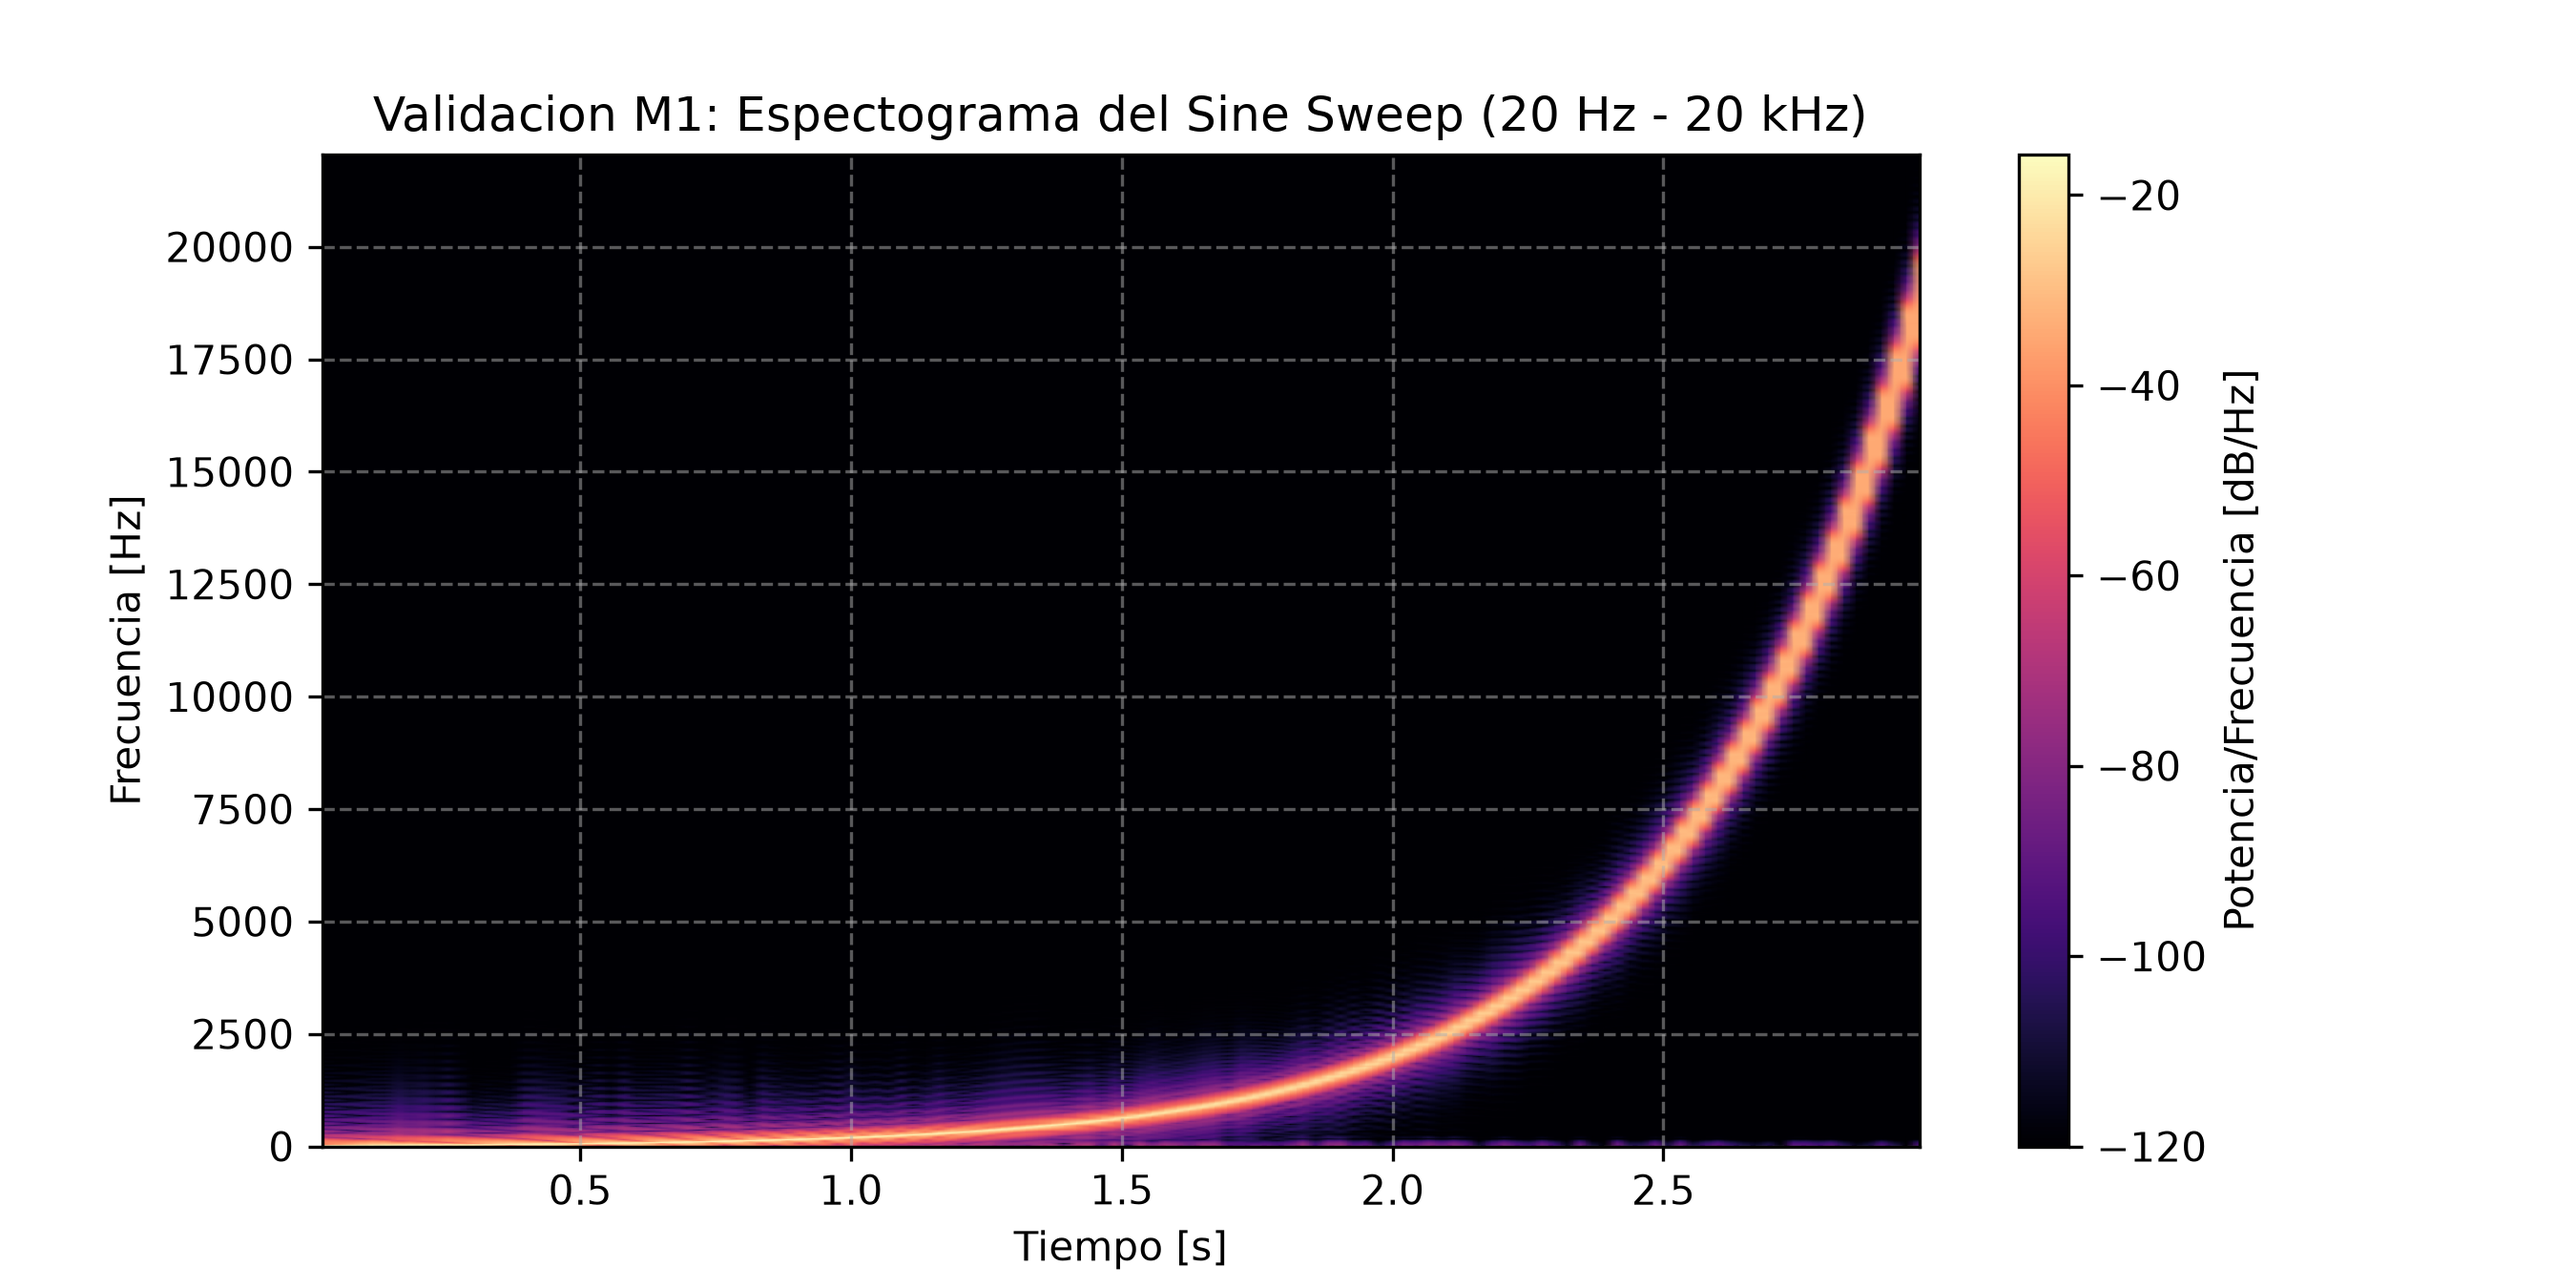
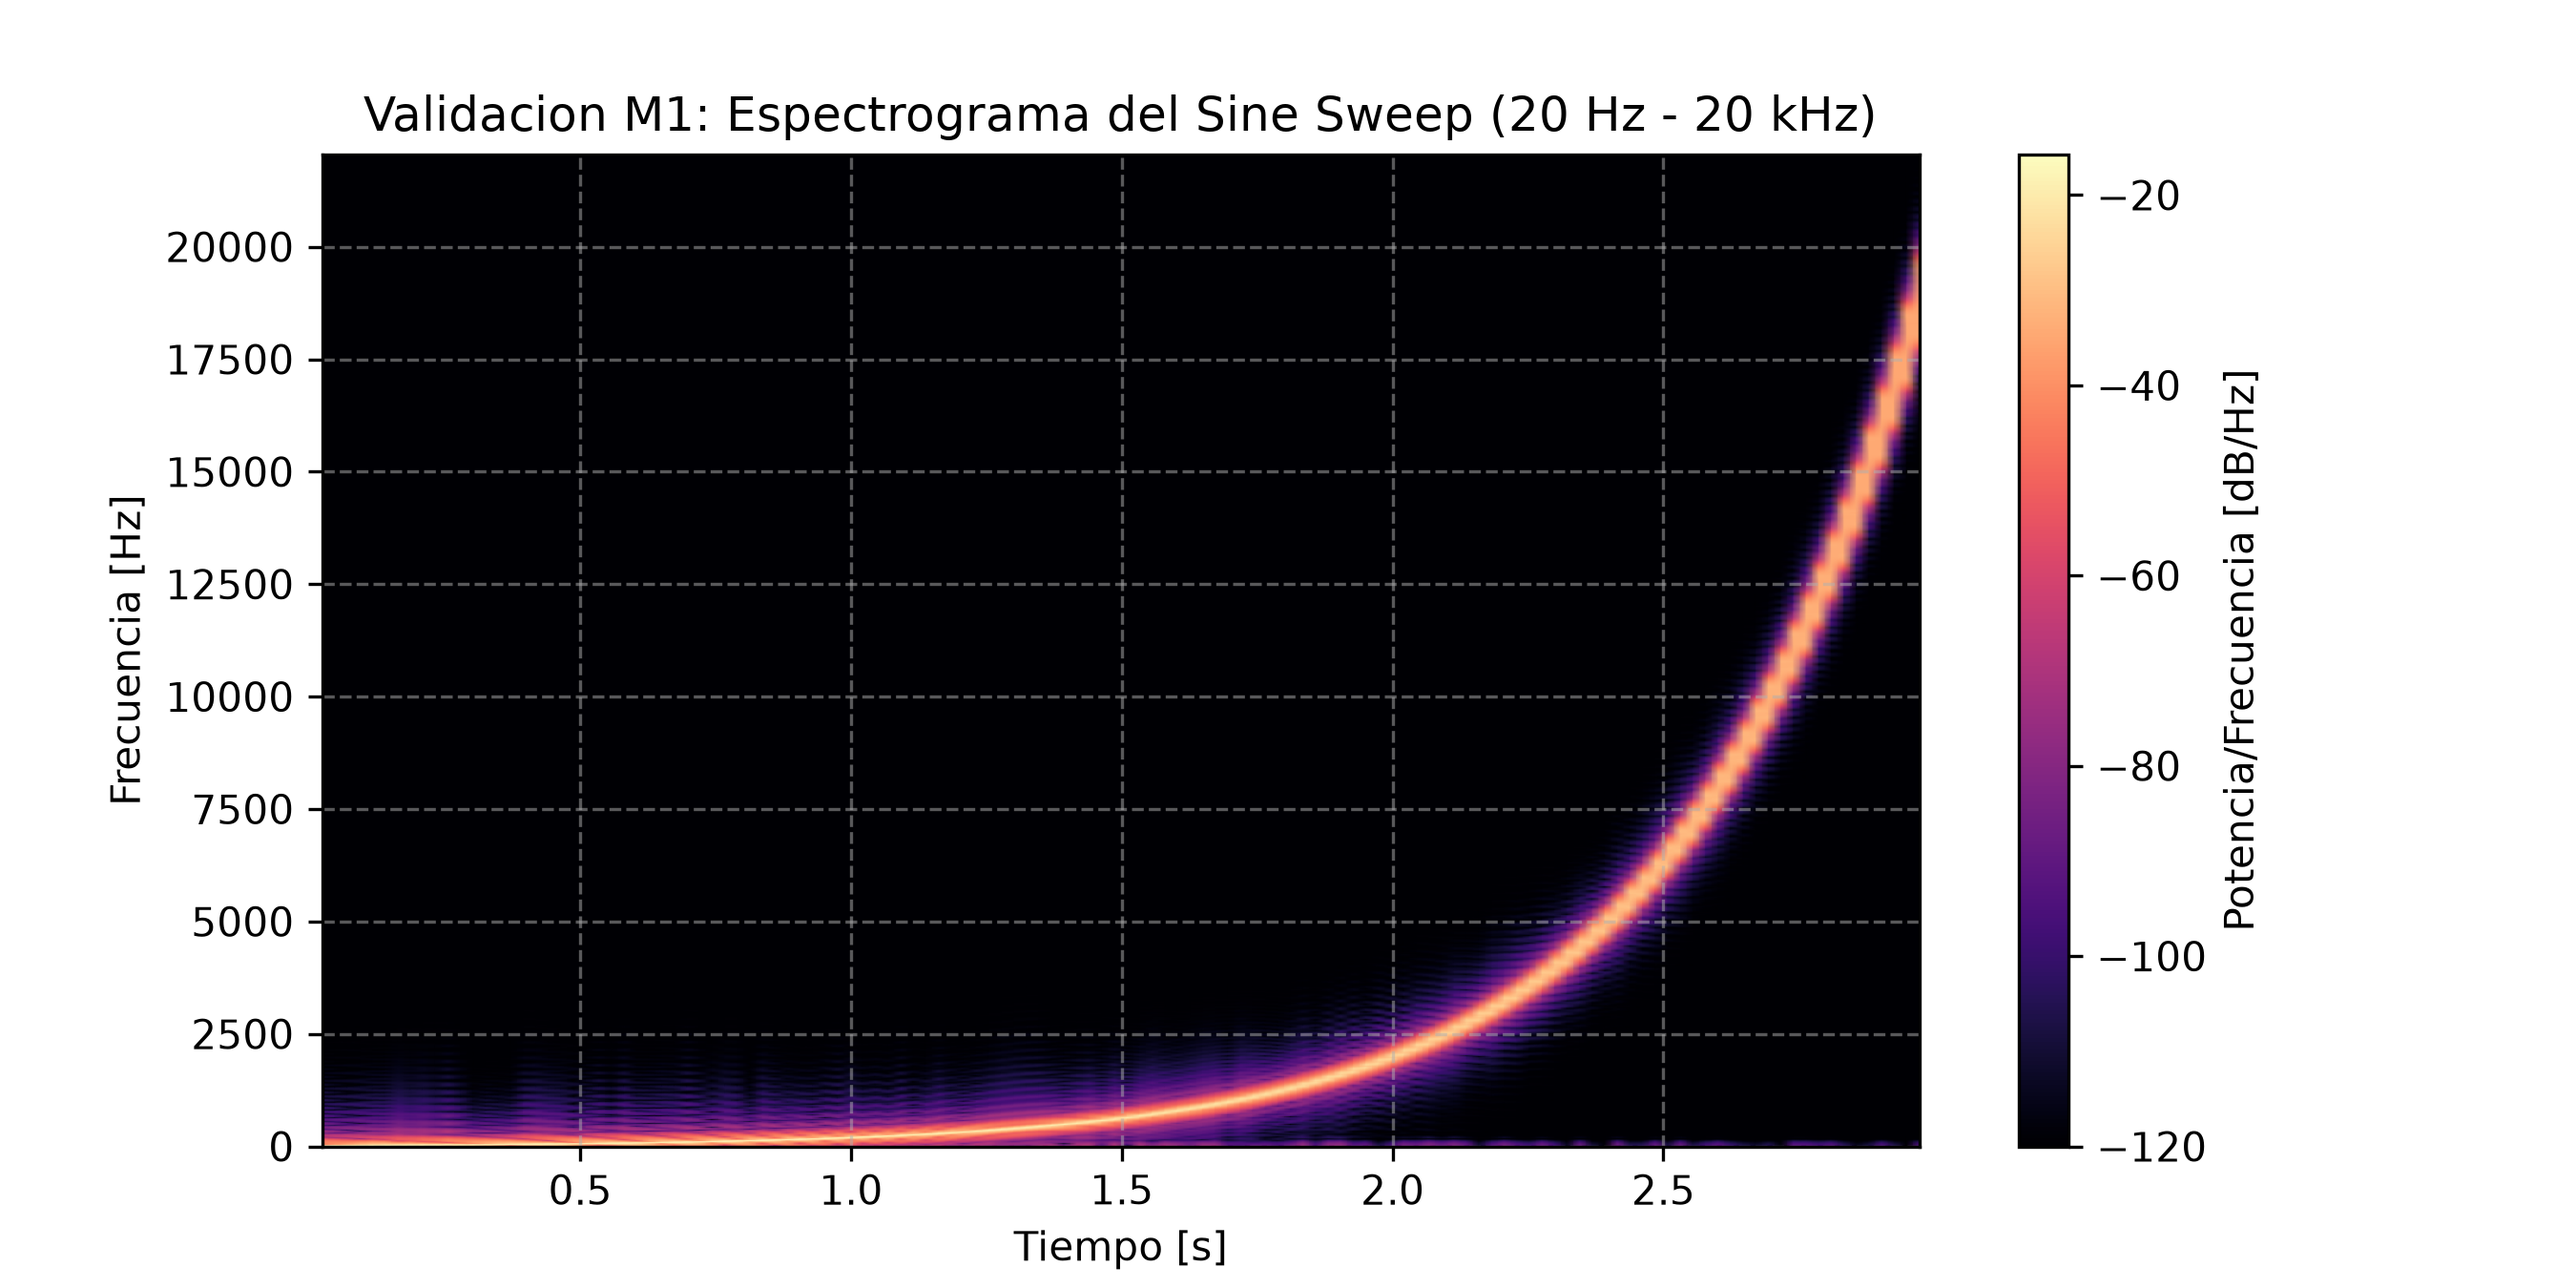
docs: corregir titulo espectrograma y agregar grafica de ruido rosa

Changed region(s): [[0.1244, 0.0622, 0.7467, 0.1244]]

diff --git a/generar_graficas.py b/generar_graficas.py
@@ -51,7 +51,7 @@ f_spec, t_spec, Sxx = sps.spectrogram(sweep, fs=fs, nperseg=2048, noverlap=1024)
 
 plt.figure(figsize=(9, 4.5))
 plt.pcolormesh(t_spec, f_spec, 10 * np.log10(Sxx + 1e-12), shading="gouraud", cmap="magma")
-plt.title("Validacion M1: Espectograma del Sine Sweep (20 Hz - 20 kHz)", fontsize=12)
+plt.title("Validacion M1: Espectrograma del Sine Sweep (20 Hz - 20 kHz)", fontsize=12)
 plt.xlabel("Tiempo [s]")
 plt.ylabel("Frecuencia [Hz]")
 plt.colorbar(label="Potencia/Frecuencia [dB/Hz]")
